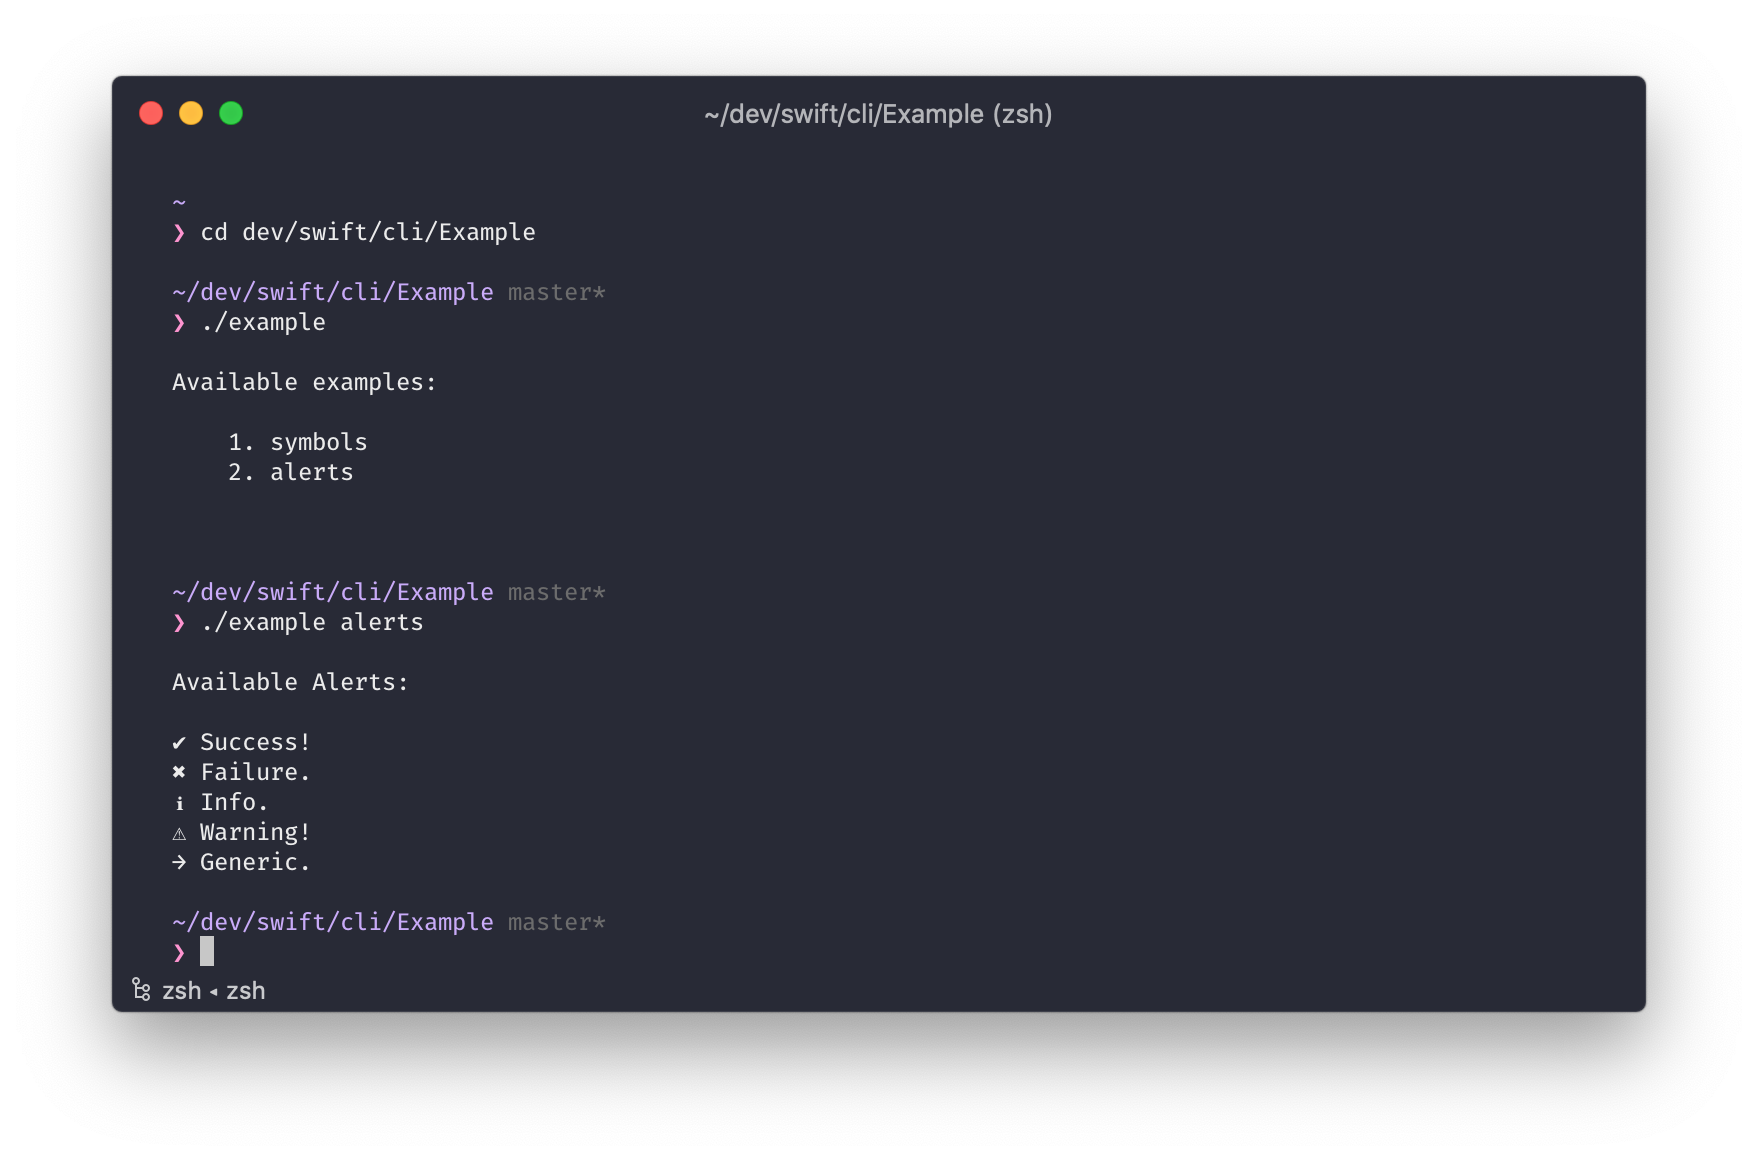
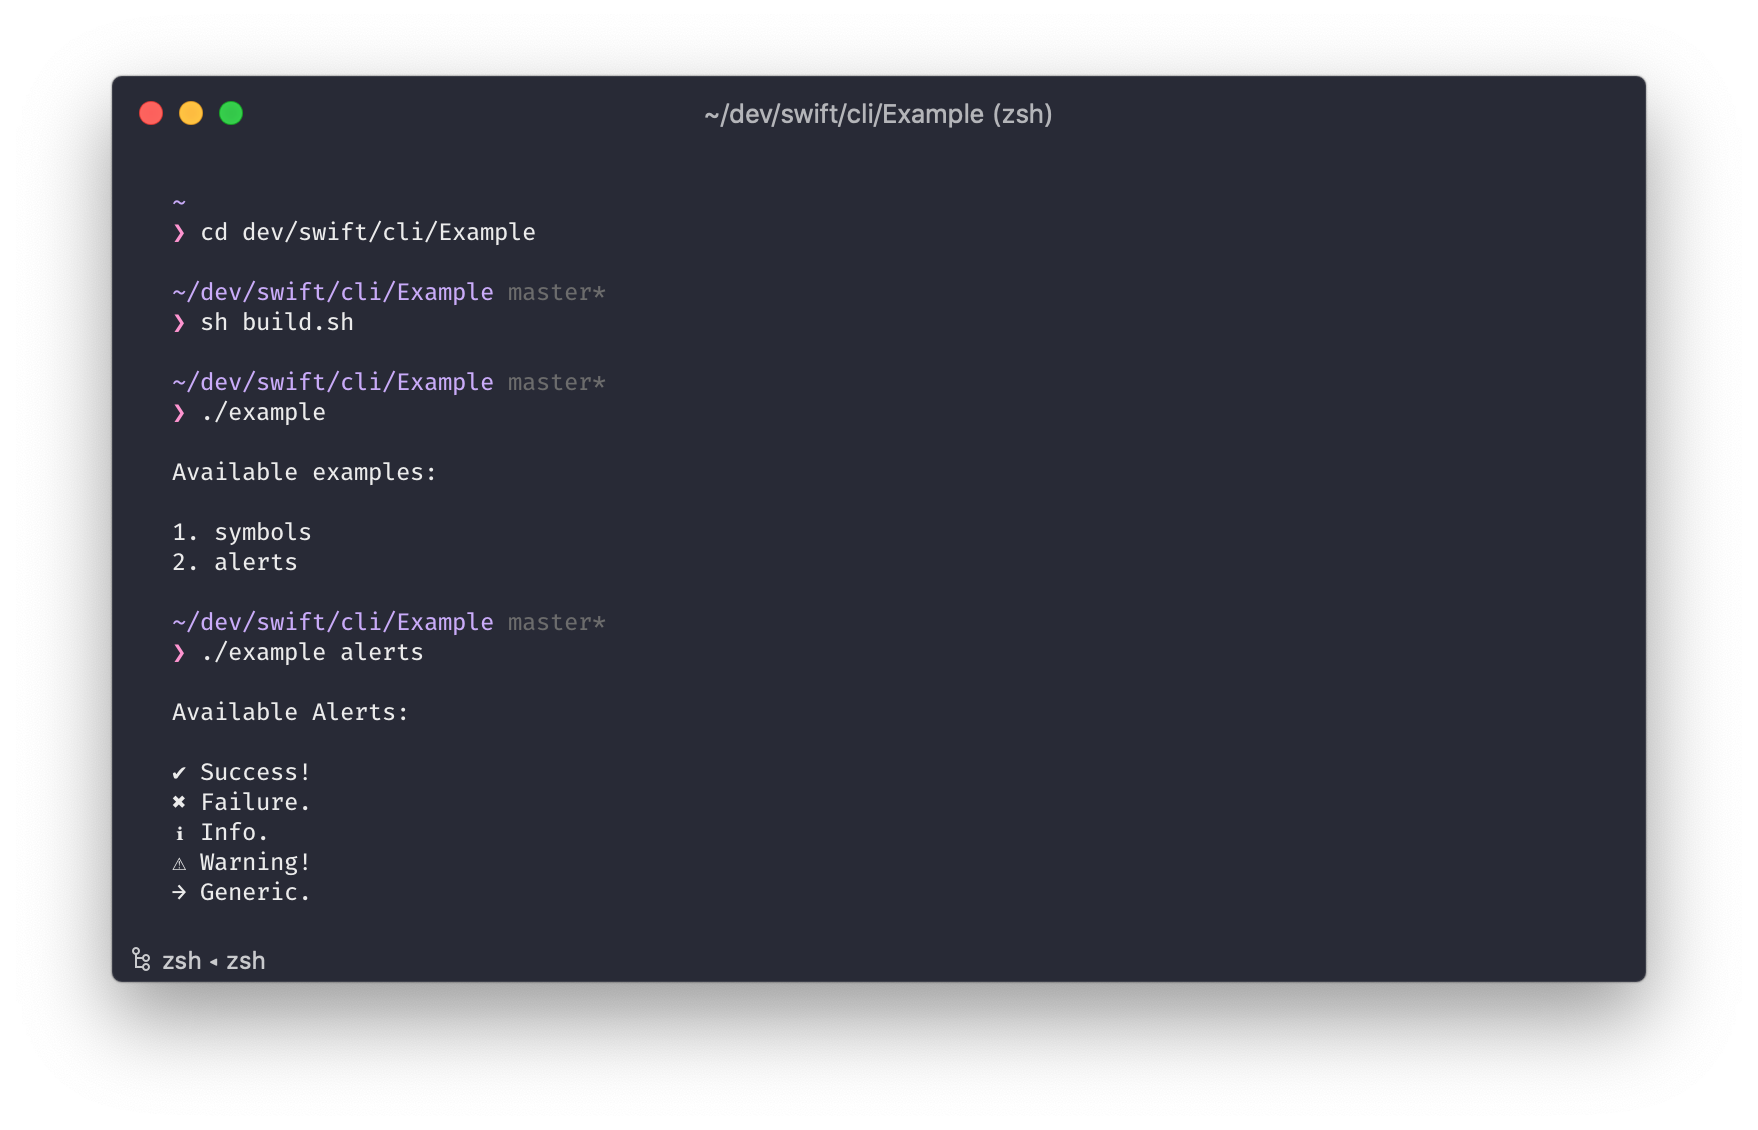
update demo screenshot

diff --git a/Example/main.swift b/Example/main.swift
@@ -102,8 +102,8 @@ func PrintAlerts() {
 func PrintInfo() {
     
     print("\nAvailable examples:\n")
-    print("    1. symbols")
-    print("    2. alerts")
+    print("1. symbols")
+    print("2. alerts")
     
 }
 

diff --git a/README.md b/README.md
@@ -12,7 +12,7 @@ A hobby project I'm working on to learn swift. The idea is to create a package s
 Run an example
 
 1. Open Terminal and go to the `Example` folder.
-2. Run `sh build.sh` script to build sample application.
+2. Run `sh build.sh` to build sample application.
 3. Run `./example alerts` to view all available alerts.
 
 ![](Assets/alert_example.png)
